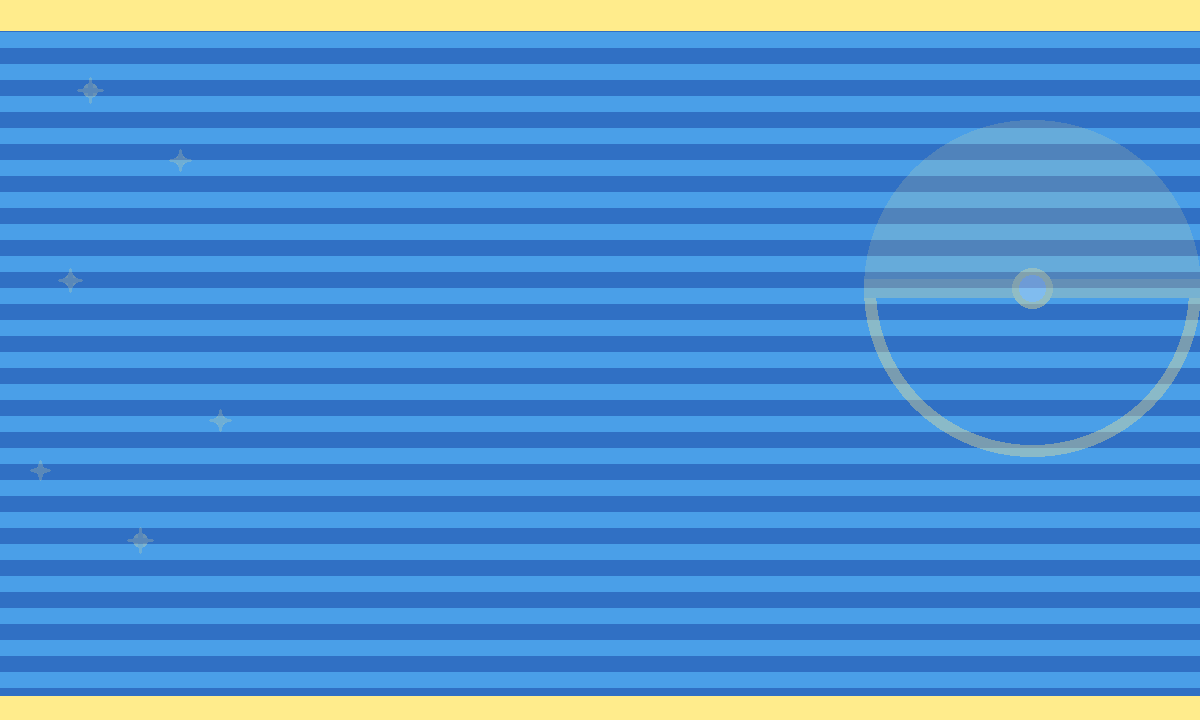
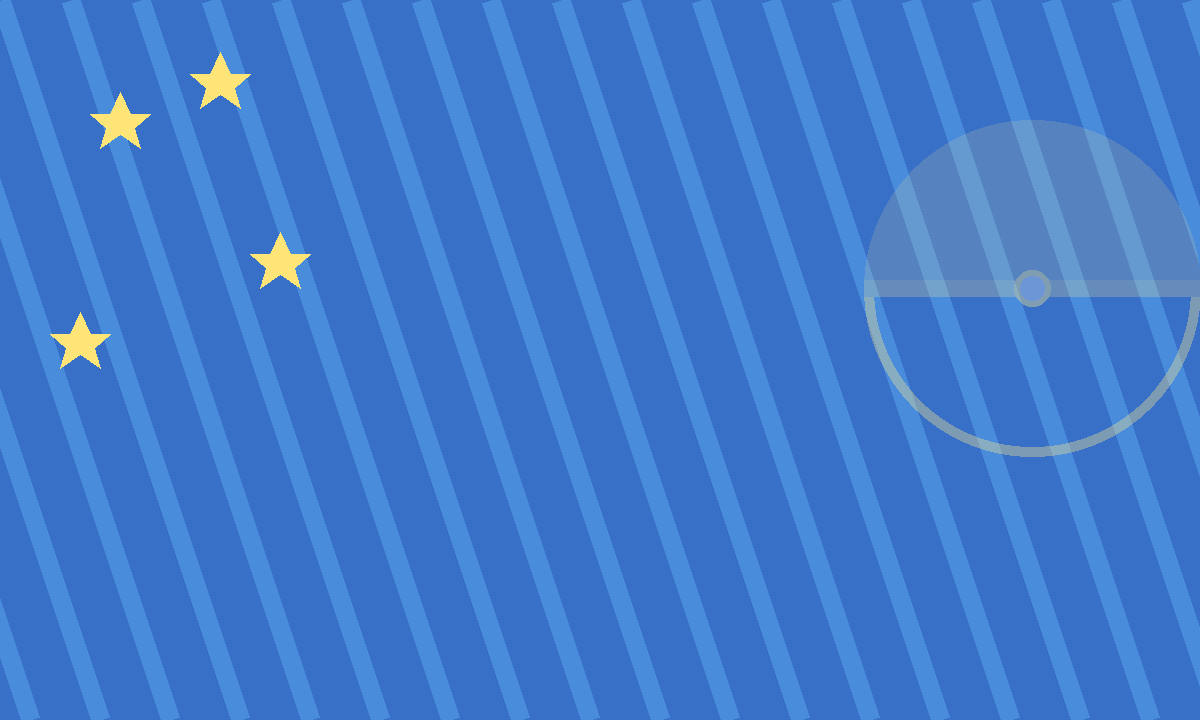
Give Trainer IDs designed backgrounds, pride flags, and anime plus Sonic looks.

diff --git a/js/trainers.js b/js/trainers.js
@@ -109,6 +109,45 @@
     ] },
     { key: "go", label: "Pokémon GO", games: "Pokémon GO", looks: [
       { id: "player-go", name: "GO Trainer" }
+    ] },
+    { key: "anime", label: "Anime", games: "Pokémon the Series", looks: [
+      { id: "ash", name: "Ash", outfit: "Kanto" },
+      { id: "ash-capbackward", name: "Ash", outfit: "Cap backward" },
+      { id: "ash-johto", name: "Ash", outfit: "Johto" },
+      { id: "ash-hoenn", name: "Ash", outfit: "Hoenn" },
+      { id: "ash-sinnoh", name: "Ash", outfit: "Sinnoh" },
+      { id: "ash-unova", name: "Ash", outfit: "Unova" },
+      { id: "ash-kalos", name: "Ash", outfit: "Kalos" },
+      { id: "ash-alola", name: "Ash", outfit: "Alola" },
+      { id: "ash-ashley", name: "Ashley", outfit: "Ash Gray" },
+      { id: "misty", name: "Misty" },
+      { id: "misty-gen1", name: "Misty", outfit: "Gen 1" },
+      { id: "misty-lgpe", name: "Misty", outfit: "Let's Go" },
+      { id: "brock", name: "Brock" },
+      { id: "brock-gen1", name: "Brock", outfit: "Gen 1" },
+      { id: "brock-lgpe", name: "Brock", outfit: "Let's Go" },
+      { id: "oak", name: "Professor Oak" },
+      { id: "clemont", name: "Clemont" },
+      { id: "iris", name: "Iris" },
+      { id: "cynthia-anime", name: "Cynthia", outfit: "Anime" },
+      { id: "yellow", name: "Yellow" },
+      { id: "liko", name: "Liko" },
+      { id: "kiawe", name: "Kiawe" },
+      { id: "lana", name: "Lana" },
+      { id: "mallow", name: "Mallow" },
+      { id: "sophocles", name: "Sophocles" },
+      { id: "giovanni", name: "Giovanni" },
+      { id: "teamrocket", name: "Team Rocket" },
+      { id: "jessiejames-gen1", name: "Jessie & James", outfit: "Gen 1" },
+      { id: "nurse", name: "Nurse Joy" },
+      { id: "officer-gen2", name: "Officer Jenny" }
+    ] },
+    { key: "sonic", label: "Sonic the Hedgehog", games: "Sonic Advance series", looks: [
+      { id: "sonic-sonic", name: "Sonic" },
+      { id: "sonic-tails", name: "Tails" },
+      { id: "sonic-knuckles", name: "Knuckles" },
+      { id: "sonic-amy", name: "Amy" },
+      { id: "sonic-cream", name: "Cream" }
     ] }
   ];
 
@@ -140,14 +179,24 @@
     { id: "galar", name: "Galar", group: "region", tone: "dark", chip: "#e8c44ae8", ink: "#1e2a4a", head: "#f4e8b0", shadow: "0 2px 0 #12182c", slot: "#ffe8a0", slotInk: "#1e2a4a" },
     { id: "hisui", name: "Hisui", group: "region", tone: "light", chip: "#784830e8", ink: "#fff8e8", head: "#4a3018", shadow: "0 1px 0 #fff4e0", slot: "#f4ead4", slotInk: "#4a3018" },
     { id: "paldea", name: "Paldea", group: "region", tone: "light", chip: "#c44858e8", ink: "#fff8f4", head: "#6a2838", shadow: "0 1px 0 #ffe8e8", slot: "#ffe4e4", slotInk: "#6a2838" },
-    { id: "starlight", name: "Starlight", group: "cute", tone: "light", chip: "#b44a8ce8", ink: "#fff8fc", head: "#6a2858", shadow: "0 1px 0 #ffe8f8", slot: "#ffe0f0", slotInk: "#6a2858" },
+    { id: "starlight", name: "Starlight", group: "cute", tone: "dark", chip: "#b44a8ce8", ink: "#fff8fc", head: "#fff4d8", shadow: "0 2px 0 #2a1048", slot: "#ffe0f0", slotInk: "#6a2858" },
     { id: "candy", name: "Candy", group: "cute", tone: "light", chip: "#d44890e8", ink: "#fff8fc", head: "#8a2860", shadow: "0 1px 0 #ffe8f4", slot: "#ffd8ec", slotInk: "#8a2860" },
     { id: "peach", name: "Peach", group: "cute", tone: "light", chip: "#e07080e8", ink: "#fff8f4", head: "#8a3840", shadow: "0 1px 0 #ffe8e0", slot: "#ffe0d4", slotInk: "#8a3840" },
     { id: "lilac", name: "Lilac", group: "cute", tone: "light", chip: "#7a58b8e8", ink: "#f8f0ff", head: "#4a3080", shadow: "0 1px 0 #f0e8ff", slot: "#eee0ff", slotInk: "#4a3080" },
     { id: "sakura", name: "Sakura", group: "cute", tone: "light", chip: "#d46088e8", ink: "#fff8fa", head: "#8a3058", shadow: "0 1px 0 #ffe8f0", slot: "#ffdce8", slotInk: "#8a3058" },
     { id: "cotton", name: "Cotton", group: "cute", tone: "light", chip: "#6a8ad0e8", ink: "#f8fbff", head: "#3a5088", shadow: "0 1px 0 #e8f4ff", slot: "#e0f0ff", slotInk: "#3a5088" },
     { id: "ribbon", name: "Ribbon", group: "cute", tone: "light", chip: "#c03870e8", ink: "#fff8fc", head: "#7a2048", shadow: "0 1px 0 #ffe0ec", slot: "#ffd0e0", slotInk: "#7a2048" },
-    { id: "aurora", name: "Aurora", group: "cute", tone: "light", chip: "#6858c0e8", ink: "#f8f4ff", head: "#3a3088", shadow: "0 1px 0 #e8e0ff", slot: "#e4dcff", slotInk: "#3a3088" }
+    { id: "aurora", name: "Aurora", group: "cute", tone: "dark", chip: "#6858c0e8", ink: "#f8f4ff", head: "#f4eeff", shadow: "0 2px 0 #2a2060", slot: "#e4dcff", slotInk: "#3a3088" },
+    { id: "pride-trans", name: "Trans", group: "pride", tone: "light", chip: "#5a3a78e8", ink: "#fff8fc", head: "#3a3068", shadow: "0 1px 0 #fff", slot: "#ffe0ec", slotInk: "#3a3068" },
+    { id: "pride-rainbow", name: "Pride", group: "pride", tone: "dark", chip: "#1e1038e8", ink: "#fff8e8", head: "#fff", shadow: "0 2px 0 #3a0860", slot: "#ffe8a0", slotInk: "#3a0860" },
+    { id: "pride-lesbian", name: "Lesbian", group: "pride", tone: "dark", chip: "#6a1028e8", ink: "#fff8f4", head: "#fff", shadow: "0 2px 0 #5a0818", slot: "#ffd8c8", slotInk: "#6a1028" },
+    { id: "pride-bi", name: "Bi", group: "pride", tone: "dark", chip: "#4a2068e8", ink: "#fff8fc", head: "#fff", shadow: "0 2px 0 #1a2068", slot: "#e8d8ff", slotInk: "#2a1860" },
+    { id: "pride-pan", name: "Pan", group: "pride", tone: "light", chip: "#b01868e8", ink: "#fff8fc", head: "#3a2868", shadow: "0 1px 0 #fff4a0", slot: "#ffe0f0", slotInk: "#3a2868" },
+    { id: "pride-nb", name: "Nonbinary", group: "pride", tone: "light", chip: "#4a2878e8", ink: "#fffdf0", head: "#222", shadow: "0 1px 0 #fff06a", slot: "#f4e8ff", slotInk: "#3a2060" },
+    { id: "pride-ace", name: "Ace", group: "pride", tone: "dark", chip: "#d8d8d8ee", ink: "#221028", head: "#fff", shadow: "0 2px 0 #000", slot: "#f0e0f8", slotInk: "#4a0868" },
+    { id: "pride-gf", name: "Genderfluid", group: "pride", tone: "dark", chip: "#f4f4f4ee", ink: "#2a1038", head: "#fff", shadow: "0 2px 0 #3a0860", slot: "#ffd8e8", slotInk: "#4a1848" },
+    { id: "pride-mlm", name: "MLM", group: "pride", tone: "dark", chip: "#143060e8", ink: "#f4fff8", head: "#fff", shadow: "0 2px 0 #0a3040", slot: "#d8fff0", slotInk: "#143060" },
+    { id: "pride-intersex", name: "Intersex", group: "pride", tone: "light", chip: "#681878e8", ink: "#fffdf0", head: "#4a1060", shadow: "0 1px 0 #ffe86a", slot: "#fff0b8", slotInk: "#4a1060" }
   ];
 
   window.playCardBg = function playCardBg(id) {
@@ -197,7 +246,6 @@
     const look = window.playTrainerLook(card?.trainerSprite);
     const bg = window.playCardBg(card?.cardBg);
     const slots = Array.from({ length: 6 }, (_, i) => team[i] || null);
-    const caption = [look.trainer.name, look.trainer.outfit].filter(Boolean).join(" · ");
     return `
       <article class="id-card id-card-${bg.tone}" style="--id-chip:${bg.chip};--id-ink:${bg.ink};--id-head:${bg.head};--id-shadow:${bg.shadow};--id-slot:${bg.slot};--id-slot-ink:${bg.slotInk};background-image:url('${window.playCardBgUrl(bg.id)}')">
         <header class="id-card-head">
@@ -219,7 +267,6 @@
             <div class="id-sprite-well">
               <img src="${window.playTrainerSpriteUrl(card.trainerSprite)}" alt="${look.trainer.name}">
             </div>
-            <p class="id-look">${caption}</p>
             ${card.title ? `<p class="id-title">${card.title}</p>` : ""}
           </div>
         </div>

diff --git a/css/play.css b/css/play.css
@@ -1094,12 +1094,28 @@ footer { margin-top: 24px; font-size: 13px; }
   background-color: #6aa6de;
   background-size: cover;
   background-position: center right;
-  border: 6px solid #f4f7fb;
-  outline: 4px solid #9eb0c4;
-  border-radius: 22px;
-  box-shadow: 0 12px 0 #5d7fa8, 0 18px 32px #687bae33;
-  padding: 18px 22px 16px;
+  border: 1px solid rgba(255,255,255,.62);
+  outline: none;
+  border-radius: 26px;
+  box-shadow:
+    0 1px 0 rgba(255,255,255,.72),
+    0 16px 0 -8px color-mix(in srgb, var(--id-chip, #5d90c8) 70%, #243044),
+    0 30px 48px rgba(26, 34, 56, .28),
+    inset 0 1px 0 rgba(255,255,255,.5),
+    inset 0 -12px 28px rgba(0,0,0,.14);
+  transform: perspective(1400px) rotateX(1.6deg);
+  padding: 20px 24px 18px;
 }
+.id-card::before {
+  content: "";
+  position: absolute;
+  inset: 10px;
+  border-radius: 18px;
+  pointer-events: none;
+  box-shadow: inset 0 0 0 1px rgba(255,255,255,.16);
+  background: linear-gradient(180deg, rgba(255,255,255,.12), transparent 28%);
+}
+.id-card-head, .id-card-body, .id-team { position: relative; z-index: 1; }
 .id-card-head {
   display: flex;
   align-items: center;
@@ -1116,11 +1132,11 @@ footer { margin-top: 24px; font-size: 13px; }
   text-shadow: var(--id-shadow, 0 2px 0 #3a5a88);
 }
 .id-ball {
-  width: 14px;
-  height: 14px;
+  width: 16px;
+  height: 16px;
   border-radius: 50%;
-  background: linear-gradient(180deg, #ff4d4d 0 50%, #fff 50% 100%);
-  box-shadow: inset 0 0 0 2px #22324a;
+  background: linear-gradient(180deg, #ff6a6a 0 46%, #fff 54% 100%);
+  box-shadow: inset 0 0 0 2px #22324a, 0 3px 0 rgba(0,0,0,.22);
 }
 .id-card-body {
   display: grid;
@@ -1144,9 +1160,12 @@ footer { margin-top: 24px; font-size: 13px; }
   align-items: center;
   background: var(--id-chip, #5d90c8cc);
   color: var(--id-ink, #fff);
-  border-radius: 8px;
-  padding: 8px 12px;
+  border-radius: 12px;
+  padding: 9px 12px;
   font-weight: 800;
+  border: 1px solid rgba(255,255,255,.22);
+  box-shadow: 0 5px 0 rgba(0,0,0,.14), inset 0 1px 0 rgba(255,255,255,.28);
+  backdrop-filter: blur(8px);
 }
 .id-stats dt {
   margin: 0;
@@ -1174,7 +1193,7 @@ footer { margin-top: 24px; font-size: 13px; }
   height: 248px;
   object-fit: contain;
   image-rendering: pixelated;
-  filter: drop-shadow(0 8px 0 #0002);
+  filter: drop-shadow(0 10px 0 rgba(0,0,0,.16)) drop-shadow(0 18px 16px rgba(0,0,0,.22));
 }
 .id-look, .id-title, .id-fav {
   margin: 10px 0 0;
@@ -1233,7 +1252,8 @@ footer { margin-top: 24px; font-size: 13px; }
   border-radius: 12px;
   background: var(--id-slot, #e7f3ff);
   color: var(--id-slot-ink, #22324a);
-  border: 2px solid #f7fbff;
+  border: 1px solid rgba(255,255,255,.55);
+  box-shadow: 0 4px 0 rgba(0,0,0,.1), inset 0 1px 0 rgba(255,255,255,.5);
 }
 .id-team img {
   width: 52px;

diff --git a/settings.html b/settings.html
@@ -7,7 +7,7 @@
 <link rel="preconnect" href="https://fonts.googleapis.com">
 <link rel="preconnect" href="https://fonts.gstatic.com" crossorigin>
 <link href="https://fonts.googleapis.com/css2?family=Fredoka:wght@600;700&family=Nunito:wght@600;800&family=Press+Start+2P&display=swap" rel="stylesheet">
-<link rel="stylesheet" href="css/play.css?v=card2">
+<link rel="stylesheet" href="css/play.css?v=card3">
 <body data-page="settings">
 <nav class="topnav">
   <div class="topnav-inner">
@@ -80,7 +80,7 @@
       <label class="field" for="display-name">Display name
         <input id="display-name" type="text" maxlength="24" placeholder="Sora">
       </label>
-      <p class="muted">Pick a region or cute look for your Trainer ID.</p>
+      <p class="muted">Pick a region, cute look, or pride flag for your Trainer ID.</p>
       <div id="card-bg-picks" class="card-bg-board"></div>
       <p id="bg-status" class="muted" role="status"></p>
       <div id="id-preview"></div>
@@ -105,8 +105,8 @@
 <script src="js/auth.js"></script>
 <script src="js/species.js"></script>
 <script src="js/game.js"></script>
-<script src="js/trainers.js?v=card2"></script>
-<script src="js/team.js?v=card2"></script>
+<script src="js/trainers.js?v=card3"></script>
+<script src="js/team.js?v=card3"></script>
 <script src="js/nav.js?v=nav1"></script>
-<script src="js/settings.js?v=card2"></script>
+<script src="js/settings.js?v=card3"></script>
 </body>

diff --git a/pokedex.html b/pokedex.html
@@ -7,7 +7,7 @@
 <link rel="preconnect" href="https://fonts.googleapis.com">
 <link rel="preconnect" href="https://fonts.gstatic.com" crossorigin>
 <link href="https://fonts.googleapis.com/css2?family=Fredoka:wght@600;700&family=Nunito:wght@600;800&display=swap" rel="stylesheet">
-<link rel="stylesheet" href="css/play.css?v=card2">
+<link rel="stylesheet" href="css/play.css?v=card3">
 <body data-page="pokedex">
 <nav class="topnav">
   <div class="topnav-inner">
@@ -112,8 +112,8 @@
 <script src="js/auth.js"></script>
 <script src="js/species.js"></script>
 <script src="js/game.js"></script>
-<script src="js/trainers.js?v=card2"></script>
-<script src="js/team.js?v=card2"></script>
+<script src="js/trainers.js?v=card3"></script>
+<script src="js/team.js?v=card3"></script>
 <script src="js/nav.js?v=nav1"></script>
 <script src="js/pokedex.js?v=id3"></script>
 </body>

diff --git a/trainer.html b/trainer.html
@@ -7,7 +7,7 @@
 <link rel="preconnect" href="https://fonts.googleapis.com">
 <link rel="preconnect" href="https://fonts.gstatic.com" crossorigin>
 <link href="https://fonts.googleapis.com/css2?family=Fredoka:wght@600;700&family=Nunito:wght@600;800&family=Press+Start+2P&display=swap" rel="stylesheet">
-<link rel="stylesheet" href="css/play.css?v=card2">
+<link rel="stylesheet" href="css/play.css?v=card3">
 <body data-page="trainer">
 <nav class="topnav">
   <div class="topnav-inner">
@@ -67,7 +67,7 @@
 <script src="js/auth.js"></script>
 <script src="js/species.js"></script>
 <script src="js/game.js"></script>
-<script src="js/trainers.js?v=card2"></script>
+<script src="js/trainers.js?v=card3"></script>
 <script src="js/nav.js?v=nav1"></script>
-<script src="js/trainer.js?v=card2"></script>
+<script src="js/trainer.js?v=card3"></script>
 </body>

diff --git a/js/settings.js b/js/settings.js
@@ -47,8 +47,9 @@
     if (!els.bgs) return;
     const current = window.playCardBg(nextCard?.cardBg).id;
     const groups = [
-      { title: "Regions", items: window.PLAY_CARD_BGS.filter((row) => row.group !== "cute") },
-      { title: "Cute", items: window.PLAY_CARD_BGS.filter((row) => row.group === "cute") }
+      { title: "Regions", items: window.PLAY_CARD_BGS.filter((row) => row.group === "region") },
+      { title: "Cute", items: window.PLAY_CARD_BGS.filter((row) => row.group === "cute") },
+      { title: "Pride", items: window.PLAY_CARD_BGS.filter((row) => row.group === "pride") }
     ];
     els.bgs.innerHTML = groups.map((group) => `
       <div class="card-bg-group">

diff --git a/bits-connect.html b/bits-connect.html
@@ -7,7 +7,7 @@
 <link rel="preconnect" href="https://fonts.googleapis.com">
 <link rel="preconnect" href="https://fonts.gstatic.com" crossorigin>
 <link href="https://fonts.googleapis.com/css2?family=Fredoka:wght@600;700&family=Nunito:wght@600;800&display=swap" rel="stylesheet">
-<link rel="stylesheet" href="css/play.css?v=card2">
+<link rel="stylesheet" href="css/play.css?v=card3">
 <body data-page="admin">
 <script>
   window.__playBitsHash = window.location.hash || "";

diff --git a/inventory.html b/inventory.html
@@ -7,7 +7,7 @@
 <link rel="preconnect" href="https://fonts.googleapis.com">
 <link rel="preconnect" href="https://fonts.gstatic.com" crossorigin>
 <link href="https://fonts.googleapis.com/css2?family=Fredoka:wght@600;700&family=Nunito:wght@600;800&display=swap" rel="stylesheet">
-<link rel="stylesheet" href="css/play.css?v=card2">
+<link rel="stylesheet" href="css/play.css?v=card3">
 <body data-page="inventory">
 <nav class="topnav">
   <div class="topnav-inner">

diff --git a/rankings.html b/rankings.html
@@ -7,7 +7,7 @@
 <link rel="preconnect" href="https://fonts.googleapis.com">
 <link rel="preconnect" href="https://fonts.gstatic.com" crossorigin>
 <link href="https://fonts.googleapis.com/css2?family=Fredoka:wght@600;700&family=Nunito:wght@600;800&display=swap" rel="stylesheet">
-<link rel="stylesheet" href="css/play.css?v=card2">
+<link rel="stylesheet" href="css/play.css?v=card3">
 <body data-page="rankings">
 <nav class="topnav">
   <div class="topnav-inner">

diff --git a/events.html b/events.html
@@ -7,7 +7,7 @@
 <link rel="preconnect" href="https://fonts.googleapis.com">
 <link rel="preconnect" href="https://fonts.gstatic.com" crossorigin>
 <link href="https://fonts.googleapis.com/css2?family=Fredoka:wght@600;700&family=Nunito:wght@600;800&display=swap" rel="stylesheet">
-<link rel="stylesheet" href="css/play.css?v=card2">
+<link rel="stylesheet" href="css/play.css?v=card3">
 <body data-page="events">
 <nav class="topnav">
   <div class="topnav-inner">

diff --git a/admin.html b/admin.html
@@ -7,7 +7,7 @@
 <link rel="preconnect" href="https://fonts.googleapis.com">
 <link rel="preconnect" href="https://fonts.gstatic.com" crossorigin>
 <link href="https://fonts.googleapis.com/css2?family=Fredoka:wght@600;700&family=Nunito:wght@600;800&display=swap" rel="stylesheet">
-<link rel="stylesheet" href="css/play.css?v=card2">
+<link rel="stylesheet" href="css/play.css?v=card3">
 <body data-page="admin">
 <nav class="topnav">
   <div class="topnav-inner">

diff --git a/store.html b/store.html
@@ -7,7 +7,7 @@
 <link rel="preconnect" href="https://fonts.googleapis.com">
 <link rel="preconnect" href="https://fonts.gstatic.com" crossorigin>
 <link href="https://fonts.googleapis.com/css2?family=Fredoka:wght@600;700&family=Nunito:wght@600;800&display=swap" rel="stylesheet">
-<link rel="stylesheet" href="css/play.css?v=card2">
+<link rel="stylesheet" href="css/play.css?v=card3">
 <body data-page="store">
 <nav class="topnav">
   <div class="topnav-inner">
